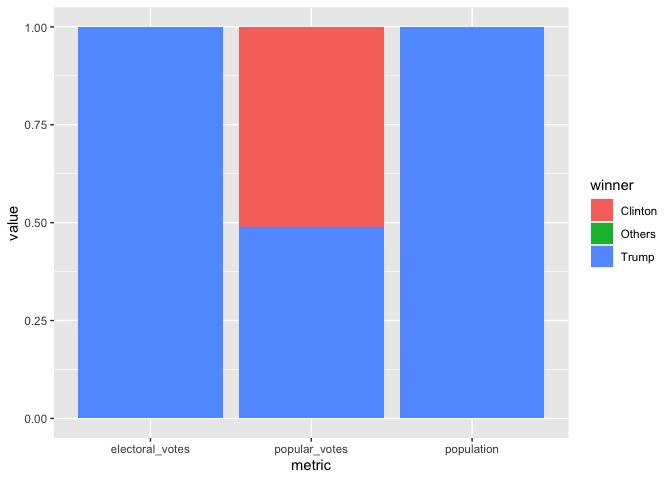
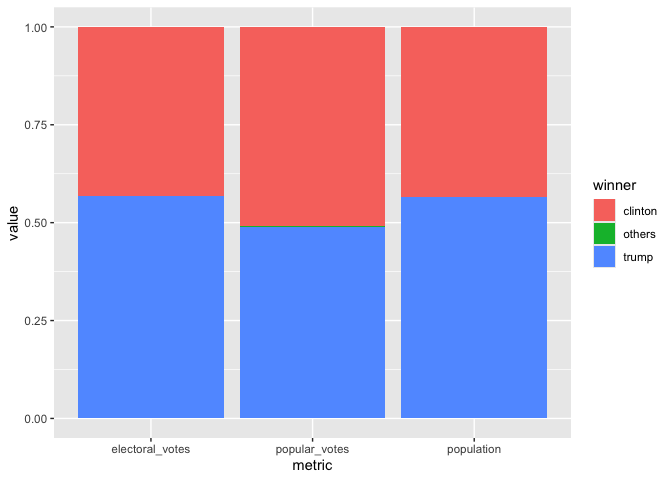
finish assignment 7!

diff --git a/problem_sets/assignment_7.md b/problem_sets/assignment_7.md
@@ -65,7 +65,7 @@ candidate won in each state, and remove the columns `abb`, `region`, and
 
 ``` r
 q_1b <- q_1a |>
-  mutate(winner = case_when(clinton > trump ~ "Clinton", trump > clinton ~ "Trump")) |>
+  mutate(winner = case_when(clinton > trump ~ "clinton", trump > clinton ~ "trump")) |>
   select(-abb, -region, -total)
 head(q_1b, 6)
 ```
@@ -78,12 +78,12 @@ head(q_1b, 6)
     5 California   37253956              55 61.72640 31.61711 3.374092 1.9649200
     6   Colorado    5029196               9 48.15651 43.25098 5.183748 1.3825031
        mcmullin    others  winner
-    1 0.0000000 1.0225246   Trump
-    2 0.0000000 4.4904710   Trump
-    3 0.6699155 1.2657329   Trump
-    4 1.1653206 1.1242832   Trump
-    5 0.2792070 1.0382753 Clinton
-    6 1.0400874 0.9861714 Clinton
+    1 0.0000000 1.0225246   trump
+    2 0.0000000 4.4904710   trump
+    3 0.6699155 1.2657329   trump
+    4 1.1653206 1.1242832   trump
+    5 0.2792070 1.0382753 clinton
+    6 1.0400874 0.9861714 clinton
 
 **1c.** Using the `q_1b` dataset, plot the relationship between
 population size and number of electoral votes. Use color to indicate who
@@ -114,12 +114,12 @@ head(q_2a, 6)
     # A tibble: 6 × 10
       state   clinton trump johnson stein mcmullin others winner metric        value
       <chr>     <dbl> <dbl>   <dbl> <dbl>    <dbl>  <dbl> <chr>  <chr>         <dbl>
-    1 Alabama    34.4  62.1    2.09 0.442    0       1.02 Trump  population   4.78e6
-    2 Alabama    34.4  62.1    2.09 0.442    0       1.02 Trump  electoral_v… 9   e0
-    3 Alaska     36.6  51.3    5.88 1.80     0       4.49 Trump  population   7.10e5
-    4 Alaska     36.6  51.3    5.88 1.80     0       4.49 Trump  electoral_v… 3   e0
-    5 Arizona    44.6  48.1    4.08 1.32     0.670   1.27 Trump  population   6.39e6
-    6 Arizona    44.6  48.1    4.08 1.32     0.670   1.27 Trump  electoral_v… 1.1 e1
+    1 Alabama    34.4  62.1    2.09 0.442    0       1.02 trump  population   4.78e6
+    2 Alabama    34.4  62.1    2.09 0.442    0       1.02 trump  electoral_v… 9   e0
+    3 Alaska     36.6  51.3    5.88 1.80     0       4.49 trump  population   7.10e5
+    4 Alaska     36.6  51.3    5.88 1.80     0       4.49 trump  electoral_v… 3   e0
+    5 Arizona    44.6  48.1    4.08 1.32     0.670   1.27 trump  population   6.39e6
+    6 Arizona    44.6  48.1    4.08 1.32     0.670   1.27 trump  electoral_v… 1.1 e1
 
 **2b.** Then, sum up the number of electoral votes and population size
 across all states for each candidate. Name this new dataset `q_2b`, and
@@ -135,10 +135,10 @@ head(q_2b, 6)
     # A tibble: 4 × 3
       metric          winner      value
       <chr>           <chr>       <dbl>
-    1 electoral_votes Clinton       232
-    2 electoral_votes Trump         306
-    3 population      Clinton 134982448
-    4 population      Trump   174881780
+    1 electoral_votes clinton       232
+    2 electoral_votes trump         306
+    3 population      clinton 134982448
+    4 population      trump   174881780
 
 **2c.** Use the `q_2b` dataset to contruct a bar plot to show the final
 electoral vote share under the scenarios of **1)** each state has the
@@ -157,10 +157,10 @@ q_2b |>
     # A tibble: 4 × 3
       metric          winner  value
       <chr>           <chr>   <dbl>
-    1 electoral_votes Clinton     0
-    2 electoral_votes Trump       1
-    3 population      Clinton     0
-    4 population      Trump       1
+    1 electoral_votes clinton     0
+    2 electoral_votes trump       1
+    3 population      clinton     0
+    4 population      trump       1
 
 ``` r
 q_2b |>
@@ -185,14 +185,15 @@ single `others` category (as shown in the table below)*
 
 ``` r
 data <- read.csv("https://raw.githubusercontent.com/kshaffer/election2016/master/2016ElectionResultsByState.csv")
+View(data)
 q_3a <- data |>
   pivot_longer(cols = c(clintonVotes, trumpVotes, othersVotes),
                names_to = "winner",
                values_to = "value") |>
   mutate(winner = case_when(
-    winner == "clintonVotes" ~ "Clinton",
-    winner == "trumpVotes" ~ "Trump",
-    winner == "othersVotes" ~ "Others"
+    winner == "clintonVotes" ~ "clinton",
+    winner == "trumpVotes" ~ "trump",
+    winner == "othersVotes" ~ "others"
   )) |>
   group_by(winner) |>
   summarize(value = sum(value, na.rm = TRUE), .groups = "drop") |>
@@ -204,33 +205,28 @@ head(q_3a)
     # A tibble: 3 × 3
       metric        winner     value
       <chr>         <chr>      <int>
-    1 popular_votes Clinton 65125640
-    2 popular_votes Others    541623
-    3 popular_votes Trump   62616675
+    1 popular_votes clinton 65125640
+    2 popular_votes others    541623
+    3 popular_votes trump   62616675
 
 **3b.** Combine the `q_2b` dataset with the `q_3a` dataset. Call this
 new dataset `q_3b`, and print it as shown below.
 
 ``` r
 q_3b <- full_join(q_2b, q_3a)
-```
-
-    Joining with `by = join_by(metric, winner, value)`
-
-``` r
 print(q_3b)
 ```
 
     # A tibble: 7 × 3
       metric          winner      value
       <chr>           <chr>       <dbl>
-    1 electoral_votes Clinton       232
-    2 electoral_votes Trump         306
-    3 population      Clinton 134982448
-    4 population      Trump   174881780
-    5 popular_votes   Clinton  65125640
-    6 popular_votes   Others     541623
-    7 popular_votes   Trump    62616675
+    1 electoral_votes clinton       232
+    2 electoral_votes trump         306
+    3 population      clinton 134982448
+    4 population      trump   174881780
+    5 popular_votes   clinton  65125640
+    6 popular_votes   others     541623
+    7 popular_votes   trump    62616675
 
 **3c.** Lastly, use the `q_3b` dataset to contruct a bar plot to show
 the final vote share under the scenarios of **1)** each state has the
@@ -240,11 +236,24 @@ population size, and **3)** the election result is determined by the
 popular vote.
 
 ``` r
-q_3b <- q_3b |>
+q_3b |>
   group_by(metric) |>
   mutate(value = (value - min(value)) / (max(value) - min(value))) |>
   ungroup()
+```
 
+    # A tibble: 7 × 3
+      metric          winner  value
+      <chr>           <chr>   <dbl>
+    1 electoral_votes clinton 0    
+    2 electoral_votes trump   1    
+    3 population      clinton 0    
+    4 population      trump   1    
+    5 popular_votes   clinton 1    
+    6 popular_votes   others  0    
+    7 popular_votes   trump   0.961
+
+``` r
 q_3b |>
   ggplot(aes(x = metric, y = value, fill = winner)) +
   geom_col(position = "fill")
@@ -270,6 +279,27 @@ missing states and DC.*
 *Hint: `group_by()` and `slice_max()` can be useful for this question.
 Check out the help file for `slice_max()` for more info.*
 
+``` r
+View(polls_us_election_2016)
+q_4a <- polls_us_election_2016 |>
+  filter(pollster == "Ipsos", state != "U.S.") |>
+  group_by(state) |>
+  slice_max(order_by = enddate, n = 1, with_ties = FALSE) |>
+  ungroup() |>
+  select(state, adjpoll_clinton, adjpoll_trump)
+head(q_4a, 6)
+```
+
+    # A tibble: 6 × 3
+      state       adjpoll_clinton adjpoll_trump
+      <fct>                 <dbl>         <dbl>
+    1 Alabama                37.5          53.7
+    2 Arizona                41.4          46.2
+    3 Arkansas               37.2          53.3
+    4 California             58.3          31.0
+    5 Colorado               46.0          40.7
+    6 Connecticut            48.8          38.9
+
 **4b.** Combine the `q_4a` dataset with the `q_1b` dataset with a `join`
 function. The resulting dataset should only have 47 rows. Create the
 following new variables in this joined dataset.
@@ -291,7 +321,41 @@ Keep only the columns `state`, `polling_error`, `result`,
 `electoral_votes`. Name the new dataset `q_4b` and show its first 6
 rows.
 
+``` r
+View(q_4a)
+View(q_1b)
+q_4b <- q_4a |>
+  inner_join(q_1b, by = "state") |>
+  mutate(
+    polling_margin = adjpoll_clinton - adjpoll_trump,
+    actual_margin = clinton - trump,
+    polling_error = polling_margin - actual_margin,
+    predicted_winner = ifelse(adjpoll_clinton > adjpoll_trump, "clinton", "trump"),
+    result = ifelse(winner == predicted_winner, "correct prediction", str_c("unexpected ", winner, " win"))) |>
+  select(state, polling_error, result, electoral_votes)
+head(q_4b, 6)
+```
+
+    # A tibble: 6 × 4
+      state       polling_error result             electoral_votes
+      <chr>               <dbl> <chr>                        <dbl>
+    1 Alabama            11.6   correct prediction               9
+    2 Arizona            -1.32  correct prediction              11
+    3 Arkansas           10.8   correct prediction               6
+    4 California         -2.78  correct prediction              55
+    5 Colorado            0.366 correct prediction               9
+    6 Connecticut        -3.69  correct prediction               7
+
 **c.** Generate the following plot with the `q_4b` dataset. Use chunk
 options to adjust the dimensions of the plot to make it longer than the
 default dimension. Based on this plot, where did the polls get wrong in
 the 2016 election?
+
+``` r
+View(q_4b)
+q_4b |>
+  ggplot(mapping = aes(polling_error, state, color = result, size = electoral_votes, fig.height=10)) +
+  geom_point() 
+```
+
+![](assignment_7_files/figure-commonmark/unnamed-chunk-13-1.png)
